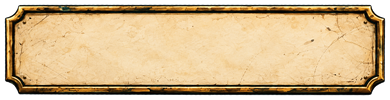
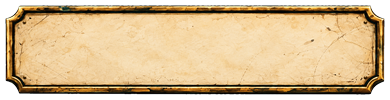
UI catch chain fixes

diff --git a/Assets/Scripts/CatchChainView.cs b/Assets/Scripts/CatchChainView.cs
@@ -81,6 +81,7 @@ public sealed class CatchChainView : MonoBehaviour
         panelRoot.anchorMax = fillParentRegion ? Vector2.one : new Vector2(0.98f, 0.78f);
         panelRoot.offsetMin = Vector2.zero;
         panelRoot.offsetMax = Vector2.zero;
+        CreateRigRod();
         CreateHeading();
         CreateLineLoadPanel();
 
@@ -91,14 +92,6 @@ public sealed class CatchChainView : MonoBehaviour
         viewportImage.raycastTarget = true;
         Mask mask = viewportObject.AddComponent<Mask>();
         mask.showMaskGraphic = false;
-
-        GameObject rigObject = CreateUiObject("Central Fishing Rig", viewport);
-        RectTransform rigRect = rigObject.GetComponent<RectTransform>();
-        SetAnchoredRect(rigRect, new Vector2(0f, 0f), new Vector2(0f, 1f), 21f, 0f, 43f, 0f);
-        Image rigImage = AddImage(rigObject, Color.white);
-        rigImage.sprite = rodSprite;
-        rigImage.type = Image.Type.Tiled;
-        AddDropShadow(rigObject, new Vector2(5f, -7f), 0.58f);
 
         GameObject contentObject = CreateUiObject("Content", viewport);
         contentRoot = contentObject.GetComponent<RectTransform>();
@@ -127,6 +120,28 @@ public sealed class CatchChainView : MonoBehaviour
         scrollRect.movementType = ScrollRect.MovementType.Clamped;
         scrollRect.scrollSensitivity = 28f;
 
+    }
+
+    /// <summary>
+    /// Creates the continuous rod behind the heading and Line Load frames, overlapping each frame edge.
+    /// </summary>
+    private void CreateRigRod()
+    {
+        GameObject rigObject = CreateUiObject("Central Fishing Rig", panelRoot);
+        RectTransform rigRect = rigObject.GetComponent<RectTransform>();
+        SetAnchoredRect(
+            rigRect,
+            new Vector2(0f, 0f),
+            new Vector2(0f, 1f),
+            31f,
+            80f,
+            53f,
+            -40f);
+
+        Image rigImage = AddImage(rigObject, Color.white);
+        rigImage.sprite = rodSprite;
+        rigImage.type = Image.Type.Tiled;
+        AddDropShadow(rigObject, new Vector2(5f, -7f), 0.58f);
     }
 
     /// <summary>

diff --git a/Assets/Scripts/FishingRunView.cs b/Assets/Scripts/FishingRunView.cs
@@ -278,7 +278,7 @@ public sealed class FishingRunView : MonoBehaviour
             regionPlaqueSprite,
             new Vector2(0f, 0.5f),
             new Vector2(92f, 0f),
-            new Vector2(520f, 72f),
+            new Vector2(520f, 64f),
             TextAlignmentOptions.Center,
             30f);
         depthText = CreateNavigationPlaque(
@@ -287,7 +287,7 @@ public sealed class FishingRunView : MonoBehaviour
             depthPlaqueSprite,
             new Vector2(0.5f, 0.5f),
             Vector2.zero,
-            new Vector2(395f, 70f),
+            new Vector2(395f, 62f),
             TextAlignmentOptions.Center,
             28f);
         deckText = CreateNavigationPlaque(
@@ -296,7 +296,7 @@ public sealed class FishingRunView : MonoBehaviour
             deckPlaqueSprite,
             new Vector2(1f, 0.5f),
             new Vector2(-96f, 0f),
-            new Vector2(245f, 68f),
+            new Vector2(245f, 60f),
             TextAlignmentOptions.Center,
             27f);
 
